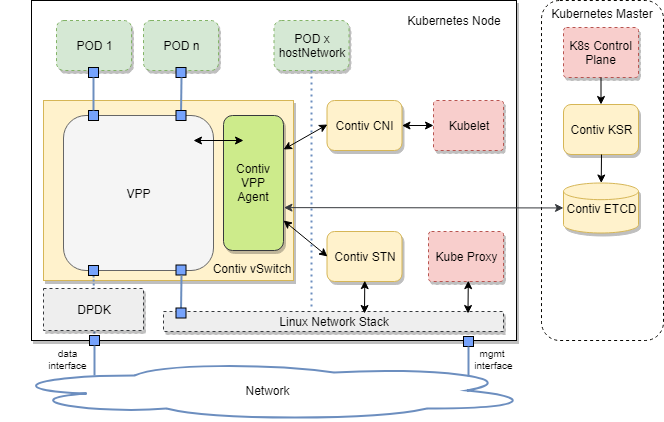
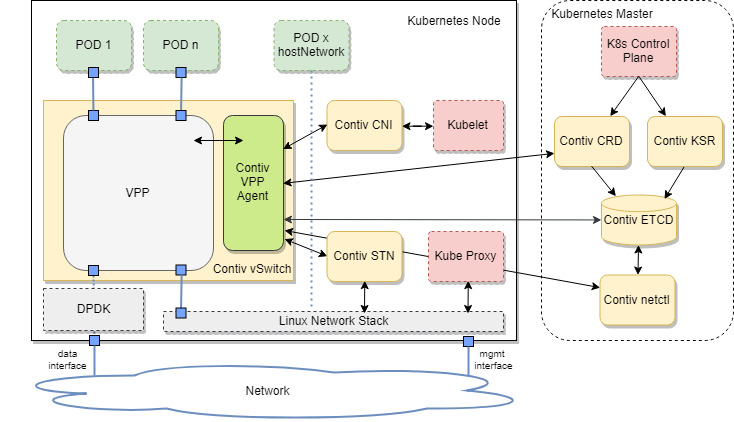
Docs updates

diff --git a/docs/ARCHITECTURE.md b/docs/ARCHITECTURE.md
@@ -5,7 +5,7 @@
 Contiv/VPP is a Kubernetes network plugin that uses [FD.io VPP](https://fd.io/) 
 to provide network connectivity between PODs in a k8s cluster.
 It deploys itself as a set of system PODs in the `kube-system` namespace,
-some of them (`contiv-ksr`, `contiv-etcd`) on the master node, and some
+some of them (`contiv-ksr`, `contiv-crd`, `contiv-etcd`) on the master node, and some
 of them (`contiv-cni`, `contiv-vswitch`, `contiv-stn`) on each node in the cluster.
 
 Contiv/VPP is fully integrated with k8s via its components,
@@ -28,9 +28,10 @@ effective and scalable.
 ## Architecture
 
 Contiv/VPP consists of several components, each of them packed and shipped as
-a Docker container. Two of them deploy on Kubernetes master node only:
+a Docker container. Three of them deploy on Kubernetes master node only:
 
  - [Contiv KSR](#contiv-ksr-(kubernetes-state-reflector))
+ - [Contiv CRD + netctl](#contiv-crd-netctl)
  - [Contiv ETCD](#contiv-etcd)
 
 and the rest of them deploy on all nodes within the k8s cluster (including the master node):
@@ -53,6 +54,11 @@ Other Contiv components do not access the k8s API directly, they subscribe to
 Contiv ETCD instead. For more information on KSR, read the 
 [KSR Readme](../cmd/contiv-ksr/README.md).
 
+### Contiv CRD + netctl
+Contiv CRD handles k8s Custom Resource Definitions defined in k8s API and
+processes them into configuration in Contiv ETCD. Currently it covers 
+Contiv-specific configuration of individual nodes such as IP address and default
+gateway, etc. 
 
 ### Contiv ETCD
 Contiv/VPP uses its own instance of ETCD database for storage of k8s cluster-related data
@@ -105,3 +111,5 @@ when the interface will be "stolen" from the host network stack just before star
 the VPP and configured with the same IP address on VPP, as well as 
 on the host-VPP interconnect TAP interface, as it had in the host before it. 
 For more information on STN setup, read the [Single NIC Setup README](SINGLE_NIC_SETUP.md).
+
+[![Contiv/VPP Architecture](img/contiv-flow.png)](img/contiv-flow.svg)
